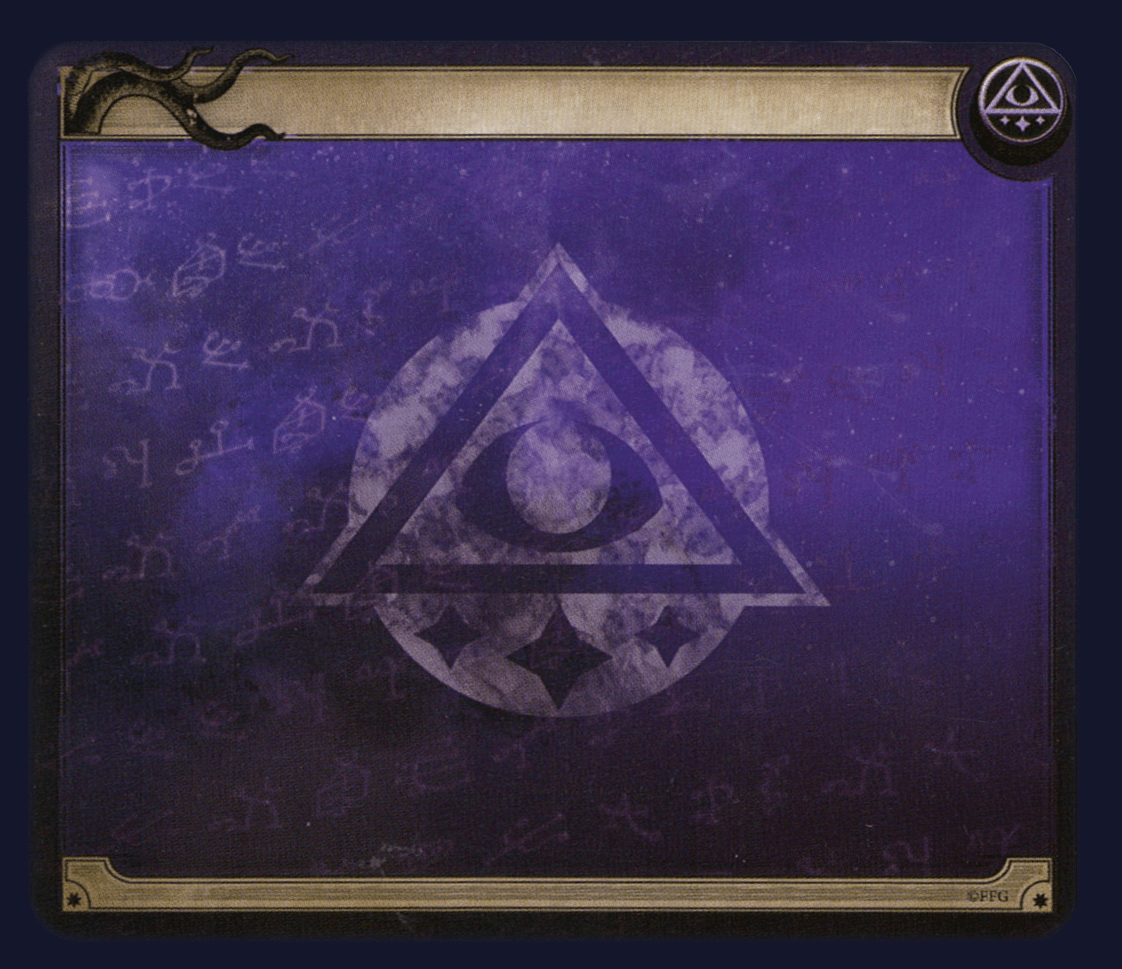
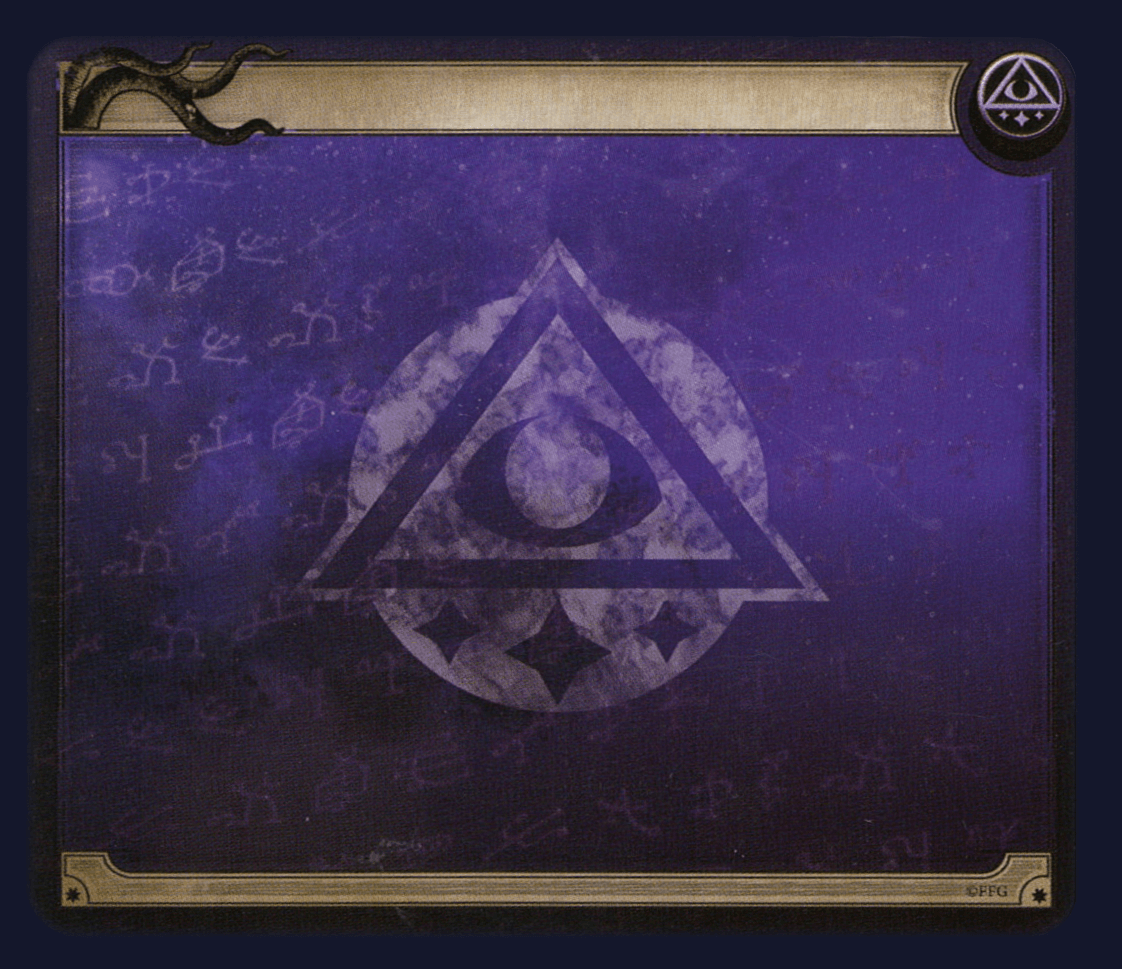
updated item position

diff --git a/src/components/dividers/classic/ClassicDivider/ClassicDivider.tsx b/src/components/dividers/classic/ClassicDivider/ClassicDivider.tsx
@@ -20,6 +20,7 @@ import { definedIf } from '@/util/common';
 
 export type ClassicDividerProps = PropsWithClassName & IDivider & PropsWithChildren &{
 	titleStroke?: boolean
+	titleClassName?: string
 }
 
 export const ClassicDivider = ({
@@ -83,6 +84,7 @@ export const ClassicDivider = ({
 
 	const titleClassName = classNames(
 		S.title,
+		props.titleClassName,
 		titleSize <= 30 && S.title_m,
 		titleSize > 30 && S.title_l,
 		titleSize > 40 && S.title_xl,

diff --git a/src/components/dividers/invocation2018/Invocation2018Divider/Invocation2018Divider.module.scss b/src/components/dividers/invocation2018/Invocation2018Divider/Invocation2018Divider.module.scss
@@ -3,7 +3,8 @@
   z-index: 1;
   // right: -2.2mm;
   right: 2.3mm;
-  top: 1.05mm;
+  // top: 1.05mm;
+  top: 2.2mm;
   font-size: 6.1mm;
 }
 
@@ -11,5 +12,9 @@
   position: absolute;
   z-index: 1;
   right: 17mm;
-  top: 5.2mm;
+  top: 6.1mm;
+}
+
+.title {
+  top: 5.8mm;
 }

diff --git a/src/components/dividers/invocation2018/Invocation2018Divider/Invocation2018Divider.tsx b/src/components/dividers/invocation2018/Invocation2018Divider/Invocation2018Divider.tsx
@@ -39,6 +39,7 @@ export const Invocation2018Divider = (props: Invocation2018DividerProps) => {
     <ClassicDivider 
 			{...dividerProps}
 			titleStroke={false}
+			titleClassName={S.title}
 			background={background?.src}
 		>
 			{xpCost && (
